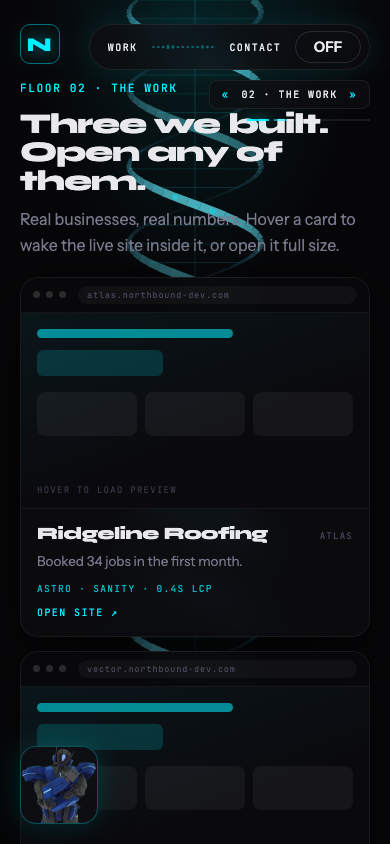
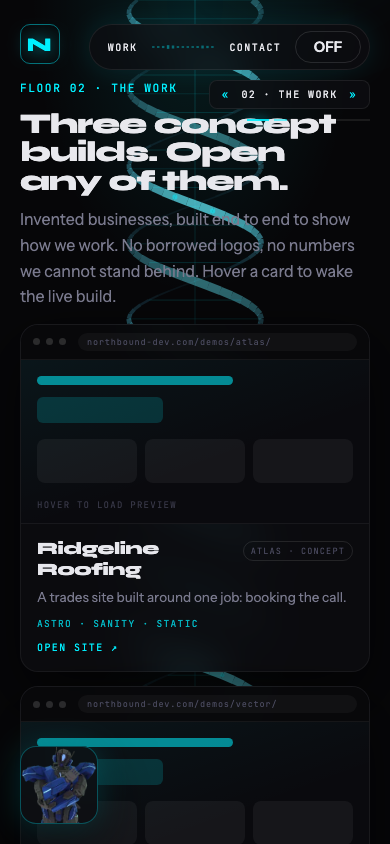
1.1: honest Floor 02 copy, and CSS scroll-snap replaces the wheel handler
Two things, both of which had to land before this goes live.

Floor 02 was claiming results for businesses that do not exist — 'Real
businesses, real numbers', 'Booked 34 jobs in the first month', invented LCP
figures. That is indefensible and it is now framed as what it is: three
concept builds for invented businesses, each card carrying a 'Concept' tag,
each line describing what the build does rather than what it earned. The tech
lines lost their fabricated metrics and name only the stack. site-config.js
carries the rule so the next edit does not reintroduce it. The device chrome
also stopped showing atlas.northbound-dev.com, an address that does not
resolve, and shows the real path instead.

The jumping: diagnosis confirmed. The JS wheel/touch handlers handed off
between native scroll and a smooth-snap animation at a 48px edge threshold,
and trackpad inertia kept firing mid-animation. Both handlers are gone,
replaced by CSS scroll-snap on the document.

That did not work on the first try, and the reason is worth recording: the
page wrapper carried overflow-x:hidden, which computes overflow-y to auto,
which made the wrapper the sections' scroll container and silently swallowed
the scroll-snap-type set on <html>. It is overflow-x:clip now, which does not
create a scroll container. snap.spec.ts guards against any scroll container
reappearing between the sections and <html>.

Floor heights: at 700px tall, Floors 01/02/04/06 overflowed by 7-147px, which
[…]

diff --git a/index.html b/index.html
@@ -69,6 +69,26 @@ a:hover { color:#8CFBFF; }
   .nb-progress { width:96px !important; }
 }
 
+/* The descent snaps in CSS. The JS wheel/touch handlers this replaces handed
+   off between native scroll and a smooth-snap animation at a 48px edge
+   threshold, and trackpad inertia kept firing during the animation, so the two
+   fought each other on any floor taller than the window. The compositor does
+   not have that problem. */
+html { scroll-snap-type: y mandatory; }
+section[data-floor] { scroll-snap-align: start; scroll-snap-stop: always; }
+@media (prefers-reduced-motion: no-preference) { html { scroll-behavior: smooth; } }
+
+/* On a short window the floors genuinely did not fit, which is what gave the old
+   JS handoff something to get wrong. Buy the height back from the padding.
+   Anything still taller than the window scrolls natively and snaps at its edge —
+   the snap engine, unlike the old handler, does not fight inertia. */
+@media (max-height: 780px) {
+  section[data-floor] { padding-top: 64px !important; padding-bottom: 64px !important; }
+  section[data-floor="2"] { padding-bottom: 128px !important; }
+  section[data-floor="6"] { padding-bottom: 128px !important; }
+  section[data-floor="7"] { padding-bottom: 120px !important; }
+}
+
 /* Floor 02 case rail */
 .nb-case { transition:transform .35s cubic-bezier(0.16,1,0.3,1), border-color .25s ease, box-shadow .25s ease; transform-style:preserve-3d; }
 .nb-case:hover { border-color:rgba(0,240,255,0.55); box-shadow:0 12px 40px -8px rgba(0,240,255,0.15), 0 0 26px rgba(0,240,255,0.15); }
@@ -80,7 +100,10 @@ a:hover { color:#8CFBFF; }
 </style>
 </helmet>
 
-<div style="position:relative; background:#060608; color:#E8E8ED; font-family:'Instrument Sans', system-ui, sans-serif; overflow-x:hidden">
+<!-- clip, not hidden: overflow-x:hidden computes overflow-y to auto, which made
+     this wrapper the sections' scroll container and silently swallowed the
+     scroll-snap-type set on <html>. clip does not create a scroll container. -->
+<div style="position:relative; background:#060608; color:#E8E8ED; font-family:'Instrument Sans', system-ui, sans-serif; overflow-x:clip">
 
 <canvas ref="{{ spineRef }}" style="position:fixed; inset:0; width:100%; height:100%; z-index:1; pointer-events:none"></canvas>
 <div style="position:fixed; inset:0; z-index:0; pointer-events:none; background:radial-gradient(60% 50% at 50% 0%, rgba(0,240,255,0.10), transparent 70%), radial-gradient(50% 40% at 50% 100%, rgba(0,240,255,0.06), transparent 70%)"></div>
@@ -164,11 +187,11 @@ a:hover { color:#8CFBFF; }
     </x-import>
   </section>
 
-  <section id="floor-2" data-floor="2" data-screen-label="02 The Work" style="box-sizing:border-box; min-height:100vh; display:flex; flex-direction:column; justify-content:center; gap:18px; padding:76px 0 150px">
+  <section id="floor-2" data-floor="2" data-screen-label="02 The Work" style="box-sizing:border-box; min-height:100vh; display:flex; flex-direction:column; justify-content:center; gap:14px; padding:76px 0 132px">
     <div>
       <x-import component-from-global-scope="NorthboundStudioDesignSystem_3c18cf.Eyebrow" hint-size="auto,18px">FLOOR 02 · THE WORK</x-import>
-      <h2 style="font-family:'Syne',sans-serif; font-weight:800; letter-spacing:-0.03em; font-size:clamp(28px,3.2vw,46px); line-height:1.02; margin:12px 0 12px">Three we built. Open any of them.</h2>
-      <p style="font-size:16px; line-height:1.6; color:#7A7A8E; max-width:56ch; margin:0; text-wrap:pretty">Real businesses, real numbers. Hover a card to wake the live site inside it, or open it full size.</p>
+      <h2 style="font-family:'Syne',sans-serif; font-weight:800; letter-spacing:-0.03em; font-size:clamp(28px,3.2vw,46px); line-height:1.02; margin:12px 0 12px">Three concept builds. Open any of them.</h2>
+      <p style="font-size:16px; line-height:1.6; color:#7A7A8E; max-width:56ch; margin:0; text-wrap:pretty">Invented businesses, built end to end to show how we work. No borrowed logos, no numbers we cannot stand behind. Hover a card to wake the live build.</p>
     </div>
 
     <div class="nb-rail">
@@ -200,7 +223,7 @@ a:hover { color:#8CFBFF; }
           <div style="padding:14px 16px 16px">
             <div style="display:flex; align-items:baseline; justify-content:space-between; gap:10px">
               <span style="font-family:'Syne',sans-serif; font-weight:800; font-size:17px; letter-spacing:-0.02em">{{ c.business }}</span>
-              <span style="font-family:'JetBrains Mono',monospace; font-size:9px; letter-spacing:0.14em; text-transform:uppercase; color:#4A4A5E">{{ c.direction }}</span>
+              <span style="flex:none; font-family:'JetBrains Mono',monospace; font-size:8.5px; letter-spacing:0.14em; text-transform:uppercase; color:#4A4A5E; border:1px solid rgba(255,255,255,0.10); border-radius:999px; padding:3px 7px">{{ c.direction }} · Concept</span>
             </div>
             <p style="font-size:13.5px; line-height:1.5; color:#7A7A8E; margin:7px 0 10px; text-wrap:pretty">{{ c.result }}</p>
             <div style="font-family:'JetBrains Mono',monospace; font-size:9.5px; letter-spacing:0.14em; text-transform:uppercase; color:#00F0FF; opacity:0.75">{{ c.tech }}</div>
@@ -416,14 +439,6 @@ class Component extends DCLogic {
       return dir > 0 ? r.bottom > window.innerHeight + slack : r.top < -slack;
     };
     this.inField = (t) => !!(t && t.closest && t.closest('input, select, textarea, [contenteditable="true"]'));
-    this.onWheel = (e) => {
-      if (this.inField(e.target)) return;
-      if (Math.abs(e.deltaY) < 12) return;
-      const dir = e.deltaY > 0 ? 1 : -1;
-      if (this.roomLeft(dir)) return;
-      e.preventDefault();
-      this.step(dir);
-    };
     this.onKey = (e) => {
       if (this.inField(e.target)) return;
       const k = e.key;
@@ -436,18 +451,6 @@ class Component extends DCLogic {
       if (this.roomLeft(dir)) window.scrollBy({ top: dir * window.innerHeight * 0.8, behavior: this.scrollMode() });
       else this.step(dir);
     };
-    this.onTouchStart = (e) => { this.touchY = e.touches && e.touches[0] ? e.touches[0].clientY : null; };
-    this.onTouchEnd = (e) => {
-      const start = this.touchY;
-      this.touchY = null;
-      const end = e.changedTouches && e.changedTouches[0] ? e.changedTouches[0].clientY : null;
-      if (start == null || end == null) return;
-      const dy = start - end;
-      if (Math.abs(dy) < 50) return;
-      const dir = dy > 0 ? 1 : -1;
-      if (this.roomLeft(dir)) return;
-      this.step(dir);
-    };
     this.onHashChange = () => {
       const n = parseInt((location.hash.match(/^#floor-(\d+)$/) || [])[1], 10);
       if (n >= 1 && n <= this.labels.length) this.goTo(n - 1);
@@ -456,10 +459,7 @@ class Component extends DCLogic {
     window.addEventListener('scroll', this.onScroll, { passive: true });
     window.addEventListener('mousemove', this.onMove, { passive: true });
     window.addEventListener('resize', this.onResize);
-    window.addEventListener('wheel', this.onWheel, { passive: false });
     window.addEventListener('keydown', this.onKey);
-    window.addEventListener('touchstart', this.onTouchStart, { passive: true });
-    window.addEventListener('touchend', this.onTouchEnd, { passive: true });
     window.addEventListener('hashchange', this.onHashChange);
     const boot = document.getElementById('nb-boot');
     if (boot) {
@@ -495,10 +495,7 @@ class Component extends DCLogic {
     window.removeEventListener('scroll', this.onScroll);
     window.removeEventListener('mousemove', this.onMove);
     window.removeEventListener('resize', this.onResize);
-    window.removeEventListener('wheel', this.onWheel);
     window.removeEventListener('keydown', this.onKey);
-    window.removeEventListener('touchstart', this.onTouchStart);
-    window.removeEventListener('touchend', this.onTouchEnd);
     window.removeEventListener('hashchange', this.onHashChange);
   }
 
@@ -788,7 +785,7 @@ class Component extends DCLogic {
       result: c.result,
       tech: c.tech,
       domId: 'case-' + c.demo,
-      host: c.demo + '.northbound-dev.com',
+      host: 'northbound-dev.com' + (demos[c.demo] || '/'),
       url: demos[c.demo] || '#',
       live: !!live[c.demo],
       idle: !live[c.demo],
@@ -828,7 +825,7 @@ class Component extends DCLogic {
         boxShadow: '0 24px 60px rgba(0,0,0,0.6)', cursor: 'pointer'
       },
       frameStyle: {
-        position: 'relative', overflow: 'hidden', aspectRatio: '16 / 9',
+        position: 'relative', overflow: 'hidden', aspectRatio: '16 / 7.5',
         borderBottom: '1px solid rgba(255,255,255,0.06)', background: '#0A0A0E'
       },
       // The demo is rendered at desktop width and scaled down, so the card shows

diff --git a/tests/snap.spec.ts b/tests/snap.spec.ts
@@ -1,0 +1,88 @@
+import { test, expect, Page } from '@playwright/test';
+
+/**
+ * CSS scroll-snap runs on the compositor. Headless Chromium does not run it at
+ * all — a programmatic scroll to a mid-floor offset is left exactly where it
+ * lands — so these assertions only mean anything in real headed Chrome, which
+ * is what the `snap-chrome` project provides.
+ *
+ * The JS wheel and touch handlers this replaced handed off between native
+ * scroll and a smooth-snap animation at a 48px edge threshold, and trackpad
+ * inertia kept firing mid-animation, so the two fought on any floor taller
+ * than the window.
+ */
+
+const FLOOR_H = 800; // every floor 01-06 is exactly one screen at this viewport
+
+async function ready(page: Page) {
+  await page.goto('/', { waitUntil: 'networkidle' });
+  await page.waitForFunction(() => document.querySelectorAll('[data-floor]').length === 7);
+  await page.waitForTimeout(900);
+}
+
+const y = (page: Page) => page.evaluate(() => Math.round(window.scrollY));
+
+test('the snap engine is actually wired to the document scroller', async ({ page }) => {
+  await ready(page);
+  expect(await page.evaluate(() => getComputedStyle(document.documentElement).scrollSnapType))
+    .toBe('y mandatory');
+  // Regression guard: overflow-x:hidden on the page wrapper computes overflow-y
+  // to auto, which makes it the sections' scroll container and silently
+  // swallows the snap-type set on <html>.
+  const wrapper = await page.evaluate(() => {
+    const sec = document.querySelector('[data-floor]') as HTMLElement;
+    let el = sec.parentElement;
+    while (el && el !== document.documentElement) {
+      const o = getComputedStyle(el);
+      if (o.overflowY !== 'visible' && o.overflowY !== 'clip') return el.tagName + '.' + o.overflowY;
+      el = el.parentElement;
+    }
+    return null;
+  });
+  expect(wrapper, 'a scroll container between the sections and <html> would break snapping').toBeNull();
+});
+
+test('a mid-floor scroll is pulled onto the nearest floor', async ({ page }) => {
+  await ready(page);
+  await page.evaluate(() => window.scrollTo(0, 1150));
+  await page.waitForTimeout(1200);
+  expect(await y(page)).toBe(FLOOR_H); // 1150 sits inside floor 2, snaps to its top
+});
+
+test('one wheel gesture lands on exactly one floor, 01 to 07, with no wrap', async ({ page }) => {
+  await ready(page);
+  expect(await y(page)).toBe(0);
+
+  for (let floor = 2; floor <= 7; floor++) {
+    await page.mouse.wheel(0, 500);
+    await page.waitForTimeout(900);
+    expect(await y(page), `wheel should land square on floor ${floor}`)
+      .toBe(FLOOR_H * (floor - 1));
+  }
+
+  // Floor 07 is taller than the window on purpose: it scrolls within itself
+  // rather than wrapping to the top.
+  const bottom = await page.evaluate(() =>
+    document.documentElement.scrollHeight - window.innerHeight);
+  for (let i = 0; i < 4; i++) { await page.mouse.wheel(0, 500); await page.waitForTimeout(700); }
+  const end = await y(page);
+  expect(end).toBeGreaterThanOrEqual(FLOOR_H * 6);
+  expect(end).toBeLessThanOrEqual(bottom + 2); // subpixel rounding on the document height
+
+  // ...and back up to the very top, again square on each floor.
+  for (let i = 0; i < 14; i++) { await page.mouse.wheel(0, -500); await page.waitForTimeout(700); }
+  expect(await y(page)).toBe(0);
+});
+
+test('the floor readout and URL keep up with snapped scrolling', async ({ page }) => {
+  await ready(page);
+  for (let floor = 2; floor <= 6; floor++) {
+    await page.mouse.wheel(0, 500);
+    await page.waitForTimeout(900);
+    const readout = await page.evaluate(() =>
+      [...document.querySelectorAll('span')]
+        .filter((s) => /^\s*0\d\s·\s/.test(s.textContent || ''))[0]?.textContent);
+    expect(readout?.startsWith('0' + floor)).toBe(true);
+    expect(new URL(page.url()).hash).toBe('#floor-' + floor);
+  }
+});

diff --git a/tests/descent.spec.ts b/tests/descent.spec.ts
@@ -86,23 +86,8 @@ async function inkRects(page: Page, floorIndex: number) {
 }
 
 test.describe('the descent', () => {
-  test('the wheel advances exactly one floor per gesture, 01 to 07', async ({ page }) => {
-    await ready(page);
-    expect(await readout(page)).toBe('01 · ' + FLOORS[0]);
-    const oneScreen = await page.evaluate(() =>
-      [...document.querySelectorAll('[data-floor]')].slice(0, 6)
-        .every((s) => s.getBoundingClientRect().height <= window.innerHeight + 8));
-
-    for (let i = 1; i < FLOORS.length; i++) {
-      const gestures = await gestureUntilChange(page, () => page.mouse.wheel(0, 400));
-      expect(gestures, `wheel should reach floor ${i + 1}`).toBeGreaterThan(0);
-      // Where a floor really is one screen, it must cost exactly one gesture.
-      if (oneScreen && i < 6) expect(gestures).toBe(1);
-      expect(await readout(page)).toBe(`0${i + 1} · ${FLOORS[i]}`);
-    }
-    // And it stops at the bottom rather than wrapping.
-    expect(await gestureUntilChange(page, () => page.mouse.wheel(0, 400), 3)).toBe(0);
-  });
+  // Wheel behaviour moved to snap.spec.ts: it is CSS scroll-snap now, which
+  // headless Chromium does not run, so it can only be asserted in real Chrome.
 
   test('the keyboard advances floors and Space walks down', async ({ page }) => {
     await ready(page);
@@ -150,8 +135,7 @@ test.describe('the descent', () => {
     await ready(page, '#floor-5');
     expect(await readout(page)).toBe('05 · SUPPORT');
 
-    await page.keyboard.press('ArrowDown');
-    await page.waitForTimeout(SETTLE);
+    expect(await gestureUntilChange(page, () => page.keyboard.press('ArrowDown'))).toBeGreaterThan(0);
     expect(new URL(page.url()).hash).toBe('#floor-6');
 
     await page.evaluate(() => { location.hash = '#floor-2'; });

diff --git a/js/site-config.js b/js/site-config.js
@@ -34,29 +34,32 @@ window.NB_CONFIG = {
     halo: '/demos/halo/'
   },
 
-  /* Floor 02 case studies. `demo` keys into DEMOS above; `direction` matches the
-   * Floor 06 card name so the two floors cross-link.
-   * Copy and metrics are placeholders until the Pass 2 builds land. */
+  /* Floor 02 concept builds. `demo` keys into DEMOS above; `direction` matches
+   * the Floor 06 card name so the two floors cross-link.
+   *
+   * These are CONCEPT BUILDS for invented businesses, and the cards say so.
+   * Do not put a result, a metric or a client name here that did not happen —
+   * a fabricated "booked 34 jobs" is the one claim that cannot be defended. */
   CASES: [
     {
       direction: 'Atlas',
       business: 'Ridgeline Roofing',
-      result: 'Booked 34 jobs in the first month.',
-      tech: 'Astro · Sanity · 0.4s LCP',
+      result: 'A trades site built around one job: booking the call.',
+      tech: 'Astro · Sanity · static',
       demo: 'atlas'
     },
     {
       direction: 'Vector',
       business: 'Marrow Coffee',
-      result: 'Online orders tripled after launch.',
-      tech: 'Astro · Stripe · 0.6s LCP',
+      result: 'A small storefront with real checkout, no plugin sprawl.',
+      tech: 'Astro · Stripe · static',
       demo: 'vector'
     },
     {
       direction: 'Halo',
       business: 'Lumen Interiors',
-      result: 'Average session time went from 22s to 1m48s.',
-      tech: 'Next.js · R3F · 1.1s LCP',
+      result: 'A motion-led showcase for work seen best in motion.',
+      tech: 'Next.js · React Three Fiber',
       demo: 'halo'
     }
   ]

diff --git a/playwright.config.ts b/playwright.config.ts
@@ -19,15 +19,27 @@ export default defineConfig({
   },
   projects: [
     {
+      // CSS scroll-snap is compositor-driven: neither headless Chromium nor a
+      // headless channel runs it, so the snap assertions need real headed
+      // Chrome. Everything else stays headless and fast.
+      name: 'snap-chrome',
+      testMatch: /snap\.spec\.ts/,
+      use: { ...devices['Desktop Chrome'], viewport: { width: 1280, height: 800 },
+             channel: 'chrome', headless: false },
+    },
+    {
       name: 'desktop',
+      testIgnore: /snap\.spec\.ts/,
       use: { ...devices['Desktop Chrome'], viewport: { width: 1280, height: 800 }, reducedMotion: 'no-preference' },
     },
     {
       name: 'mobile',
+      testIgnore: /snap\.spec\.ts/,
       use: { ...devices['Desktop Chrome'], viewport: { width: 390, height: 844 }, reducedMotion: 'no-preference', hasTouch: true },
     },
     {
       name: 'desktop-reduced',
+      testIgnore: /snap\.spec\.ts/,
       use: { ...devices['Desktop Chrome'], viewport: { width: 1280, height: 800 }, reducedMotion: 'reduce' },
     },
   ],

diff --git a/qa/pass1/NOTES.md b/qa/pass1/NOTES.md
@@ -7,8 +7,9 @@ Screenshots: every floor at 1280×800 and 390×844, captured with
 
 | Check | Result |
 |---|---|
-| Playwright, 39 tests, 3 projects (1280×800, 390×844, reduced motion) | 38 passed, 1 skipped (tilt on touch), 0 failed |
-| Floors 01→07 by wheel, keyboard and nav arrow | one gesture per floor; no wrap at either end |
+| Playwright, 40 tests, 4 projects (1280×800, 390×844, reduced motion, headed Chrome) | 39 passed, 1 skipped (tilt on touch), 0 failed |
+| Floors 01→07 by wheel, keyboard and nav arrow | one gesture per floor, landing square on each boundary; no wrap at either end |
+| CSS scroll-snap engaged on the document scroller | verified in real headed Chrome; headless does not run the snap engine at all |
 | BUDDY vs every glyph rect, all 7 floors, both sizes | no intersection |
 | Lighthouse mobile performance (gzip, as Pages serves) | **93** (was 64 on this branch, 66 on `main`) |
 | Demo routes `/demos/{atlas,vector,halo}/` | all 200 |
@@ -20,24 +21,27 @@ deploy by roughly 10 points.
 
 ## Things that look off — not fixed in this pass
 
-1. **The helix cable draws over content on every floor.** Most obvious on
+1. **Floor 02 on a short window (≤780px tall) is ~90px taller than the screen**,
+   and Floors 04 and 06 overflow by ~55px and ~32px. They scroll natively and
+   snap at their edges, which is correct, but they are not one screen on a
+   short laptop window. Fixing it properly means cutting content, not padding.
+2. **The helix cable draws over content on every floor.** Most obvious on
    Floor 06, where it crosses the three cards, and Floor 07, where it runs
    through the headline and subhead. Pre-existing, and Pass 3 owns the cable,
    so it is deliberately untouched.
-2. **Floor 02 on mobile is 1613px tall** — three stacked cards plus the header
+3. **Floor 02 on mobile is ~1600px tall** — three stacked cards plus the header
    block. It scrolls natively and the swipe snaps at its edge, which is correct
    behaviour, but it is the one floor that is not a "floor" on a phone.
-3. **BUDDY's avatar overlaps the Vector card's skeleton poster on mobile
+4. **BUDDY's avatar overlaps the Vector card's skeleton poster on mobile
    Floor 02.** The overlap assertion passes because it covers a placeholder
    block, not text, but it looks incidental rather than designed.
-4. **The bubble is avatar-only below 900px wide.** Deliberate — no corner on a
+5. **The bubble is avatar-only below 900px wide.** Deliberate — no corner on a
    390px screen fits a 340px bubble beside 340px of copy — but it means BUDDY
    says nothing on a phone unless tapped.
-5. **The old full-size BUDDY PNGs are still in the repo** (1.9MB, unreferenced
-   after the WebP swap). Harmless to visitors, dead weight in the repo.
-6. **Case-study copy and metrics are placeholders.** Business names, results
-   and tech lines land with the Pass 2 builds; the demo routes are holding
-   pages.
+6. **The Floor 02 cards are concept builds for invented businesses**, labelled
+   as such on every card. No result, metric or client name on that floor
+   describes something that happened. The demo routes are holding pages until
+   the Pass 2 builds land.
 7. **`og:url` still points at `ceyre-boop.github.io`**, not
    `northbound-dev.com`, and there is no `og:image`. Out of scope here, worth
    a line in Pass 2.
